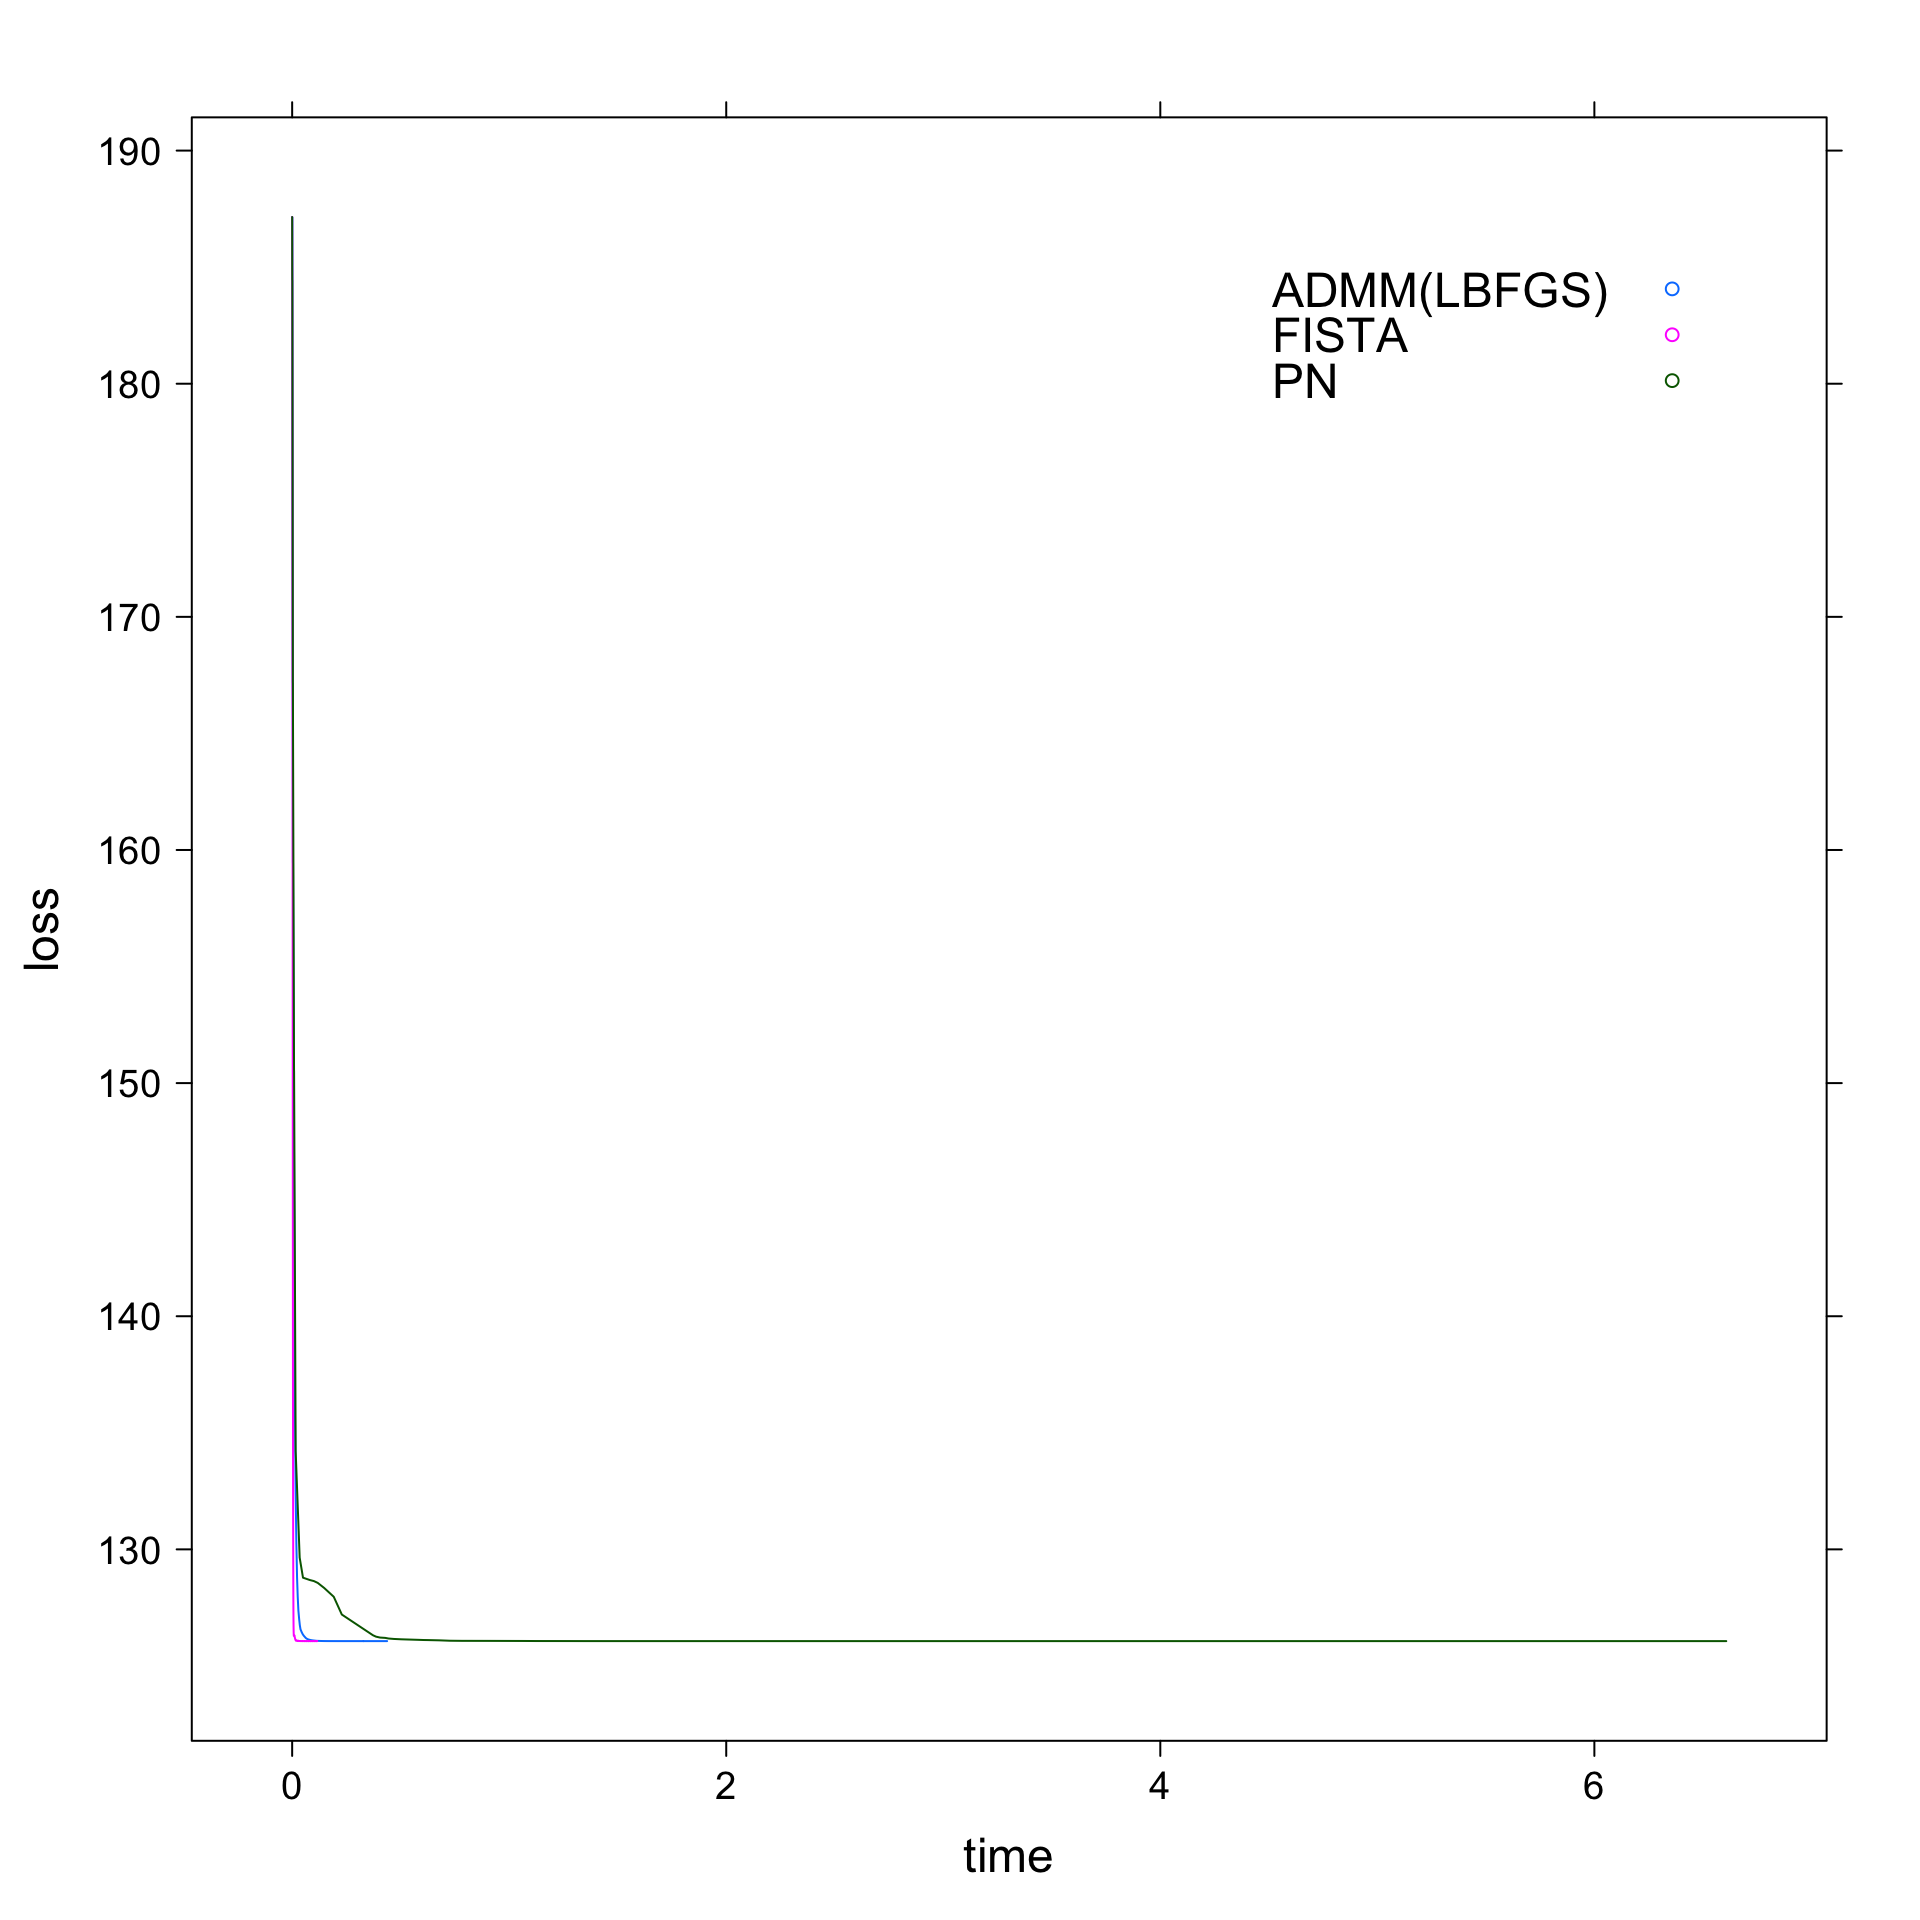
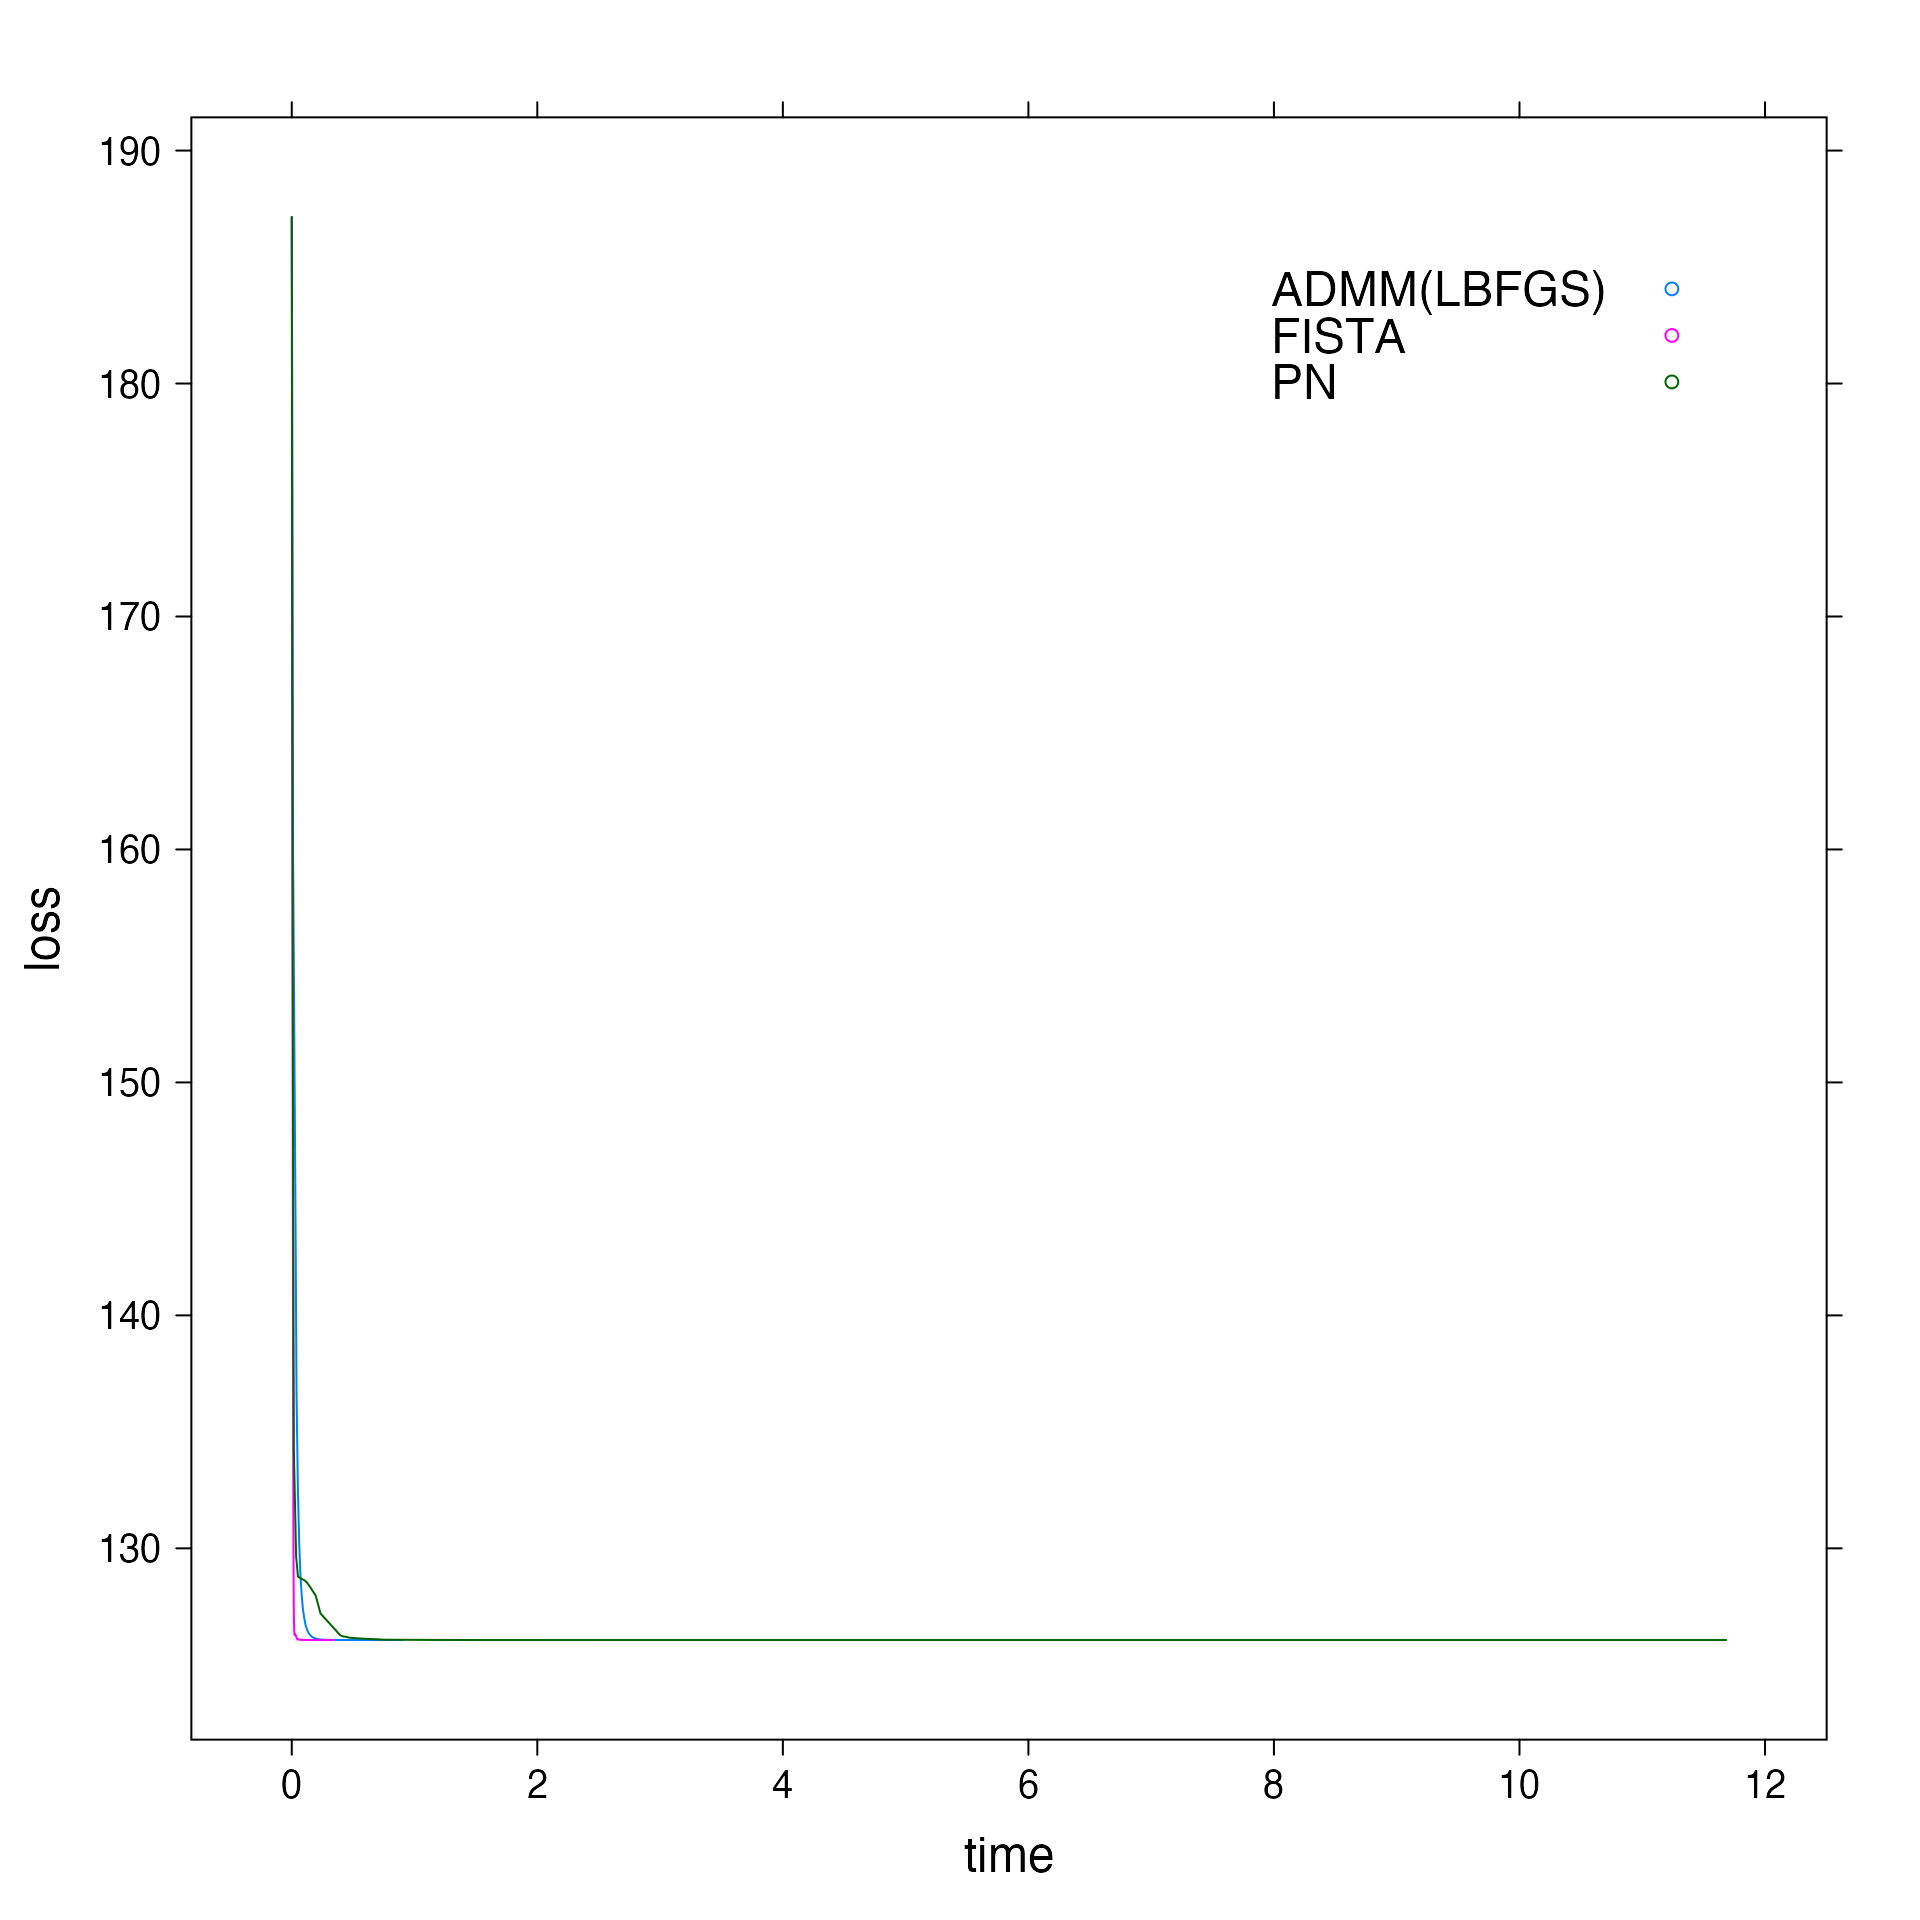
Built site for solvers: 1.0@55af03c

diff --git a/articles/compare_opt_algo.html b/articles/compare_opt_algo.html
@@ -54,22 +54,10 @@
   </a>
   <ul class="dropdown-menu" role="menu">
 <li>
-      <a href="../articles/binomial.html">Binomial Likelihood Benchmarks</a>
-    </li>
-    <li>
       <a href="../articles/compare-fista-admm-pn.html">Comparing FISTA, ADMM and Proximal Newton</a>
     </li>
     <li>
       <a href="../articles/compare_opt_algo.html">Comparing Optimization Algorithm Choices in ADMM</a>
-    </li>
-    <li>
-      <a href="../articles/gaussian.html">Gaussian Likelihood Benchmarks</a>
-    </li>
-    <li>
-      <a href="../articles/multinomial.html">Multinomial Likelihood Benchmarks</a>
-    </li>
-    <li>
-      <a href="../articles/poisson.html">Poisson Likelihood Benchmarks</a>
     </li>
   </ul>
 </li>
@@ -90,7 +78,7 @@
       <h1 data-toc-skip>Comparing Optimization Algorithm Choices in ADMM</h1>
                         <h4 class="author">Akarsh Goyal</h4>
             
-            <h4 class="date">2020-08-24</h4>
+            <h4 class="date">2020-08-29</h4>
       
       
       <div class="hidden name"><code>compare_opt_algo.Rmd</code></div>
@@ -123,11 +111,11 @@
 <div class="sourceCode" id="cb4"><pre class="downlit">
 <span class="co"># Comparing total execution time</span>
 <span class="fu"><a href="https://rdrr.io/r/base/print.html">print</a></span>(<span class="kw">admm_nr</span><span class="op">$</span><span class="kw">total_time</span>)
-<span class="co">#&gt; [1] 0.6366004</span>
+<span class="co">#&gt; [1] 1.234974</span>
 <span class="fu"><a href="https://rdrr.io/r/base/print.html">print</a></span>(<span class="kw">admm_bfgs</span><span class="op">$</span><span class="kw">total_time</span>)
-<span class="co">#&gt; [1] 3.29203</span>
+<span class="co">#&gt; [1] 4.594211</span>
 <span class="fu"><a href="https://rdrr.io/r/base/print.html">print</a></span>(<span class="kw">admm_lbfgs</span><span class="op">$</span><span class="kw">total_time</span>)
-<span class="co">#&gt; [1] 2.983981</span>
+<span class="co">#&gt; [1] 7.189849</span>
 </pre></div>
 <p>Now, these fits cannot be directly used to plot as they contain a lot of parameter so we’ll call a utility function that merges the relevant parameter and returns a dataframe.</p>
 <div class="sourceCode" id="cb5"><pre class="downlit">

diff --git a/articles/compare-fista-admm-pn.html b/articles/compare-fista-admm-pn.html
@@ -54,22 +54,10 @@
   </a>
   <ul class="dropdown-menu" role="menu">
 <li>
-      <a href="../articles/binomial.html">Binomial Likelihood Benchmarks</a>
-    </li>
-    <li>
       <a href="../articles/compare-fista-admm-pn.html">Comparing FISTA, ADMM and Proximal Newton</a>
     </li>
     <li>
       <a href="../articles/compare_opt_algo.html">Comparing Optimization Algorithm Choices in ADMM</a>
-    </li>
-    <li>
-      <a href="../articles/gaussian.html">Gaussian Likelihood Benchmarks</a>
-    </li>
-    <li>
-      <a href="../articles/multinomial.html">Multinomial Likelihood Benchmarks</a>
-    </li>
-    <li>
-      <a href="../articles/poisson.html">Poisson Likelihood Benchmarks</a>
     </li>
   </ul>
 </li>
@@ -90,7 +78,7 @@
       <h1 data-toc-skip>Comparing FISTA, ADMM and Proximal Newton</h1>
                         <h4 class="author">Akarsh Goyal</h4>
             
-            <h4 class="date">2020-08-24</h4>
+            <h4 class="date">2020-08-29</h4>
       
       
       <div class="hidden name"><code>compare-fista-admm-pn.Rmd</code></div>
@@ -121,11 +109,11 @@
 <div class="sourceCode" id="cb4"><pre class="downlit">
 <span class="co"># Comparing total execution time</span>
 <span class="fu"><a href="https://rdrr.io/r/base/print.html">print</a></span>(<span class="kw">fista_fit</span><span class="op">$</span><span class="kw">total_time</span>)
-<span class="co">#&gt; [1] 0.1159849</span>
+<span class="co">#&gt; [1] 0.3436372</span>
 <span class="fu"><a href="https://rdrr.io/r/base/print.html">print</a></span>(<span class="kw">admm_fit</span><span class="op">$</span><span class="kw">total_time</span>)
-<span class="co">#&gt; [1] 0.4406385</span>
+<span class="co">#&gt; [1] 0.9014282</span>
 <span class="fu"><a href="https://rdrr.io/r/base/print.html">print</a></span>(<span class="kw">pn_fit</span><span class="op">$</span><span class="kw">total_time</span>)
-<span class="co">#&gt; [1] 6.708948</span>
+<span class="co">#&gt; [1] 12.00022</span>
 </pre></div>
 <p>Now, these fits cannot be directly used to plot as they contain a lot of parameter so we’ll call a utility function that merges the relevant parameter and returns a dataframe.</p>
 <div class="sourceCode" id="cb5"><pre class="downlit">

diff --git a/articles/index.html b/articles/index.html
@@ -94,10 +94,10 @@
   </a>
   <ul class="dropdown-menu" role="menu">
     <li>
-      <a href="../articles/binomial.html">Binomial Likelihood Benchmarks</a>
+      <a href="../articles/compare-fista-admm-pn.html">Comparing FISTA, ADMM and Proximal Newton</a>
     </li>
     <li>
-      <a href="../articles/gaussian.html">Gaussian Likelihood Benchmarks</a>
+      <a href="../articles/compare_opt_algo.html">Comparing Optimization Algorithm Choices in ADMM</a>
     </li>
   </ul>
 </li>
@@ -125,9 +125,9 @@
       <p class="section-desc"></p>
 
       <dl>
-        <dt><a href="binomial.html">Binomial Likelihood Benchmarks</a></dt>
+        <dt><a href="compare-fista-admm-pn.html">Comparing FISTA, ADMM and Proximal Newton</a></dt>
         <dd></dt>
-        <dt><a href="gaussian.html">Gaussian Likelihood Benchmarks</a></dt>
+        <dt><a href="compare_opt_algo.html">Comparing Optimization Algorithm Choices in ADMM</a></dt>
         <dd></dt>
       </dl>
     </div>

diff --git a/reference/mergeFits.html b/reference/mergeFits.html
@@ -95,10 +95,10 @@
   </a>
   <ul class="dropdown-menu" role="menu">
     <li>
-      <a href="../articles/binomial.html">Binomial Likelihood Benchmarks</a>
+      <a href="../articles/compare-fista-admm-pn.html">Comparing FISTA, ADMM and Proximal Newton</a>
     </li>
     <li>
-      <a href="../articles/gaussian.html">Gaussian Likelihood Benchmarks</a>
+      <a href="../articles/compare_opt_algo.html">Comparing Optimization Algorithm Choices in ADMM</a>
     </li>
   </ul>
 </li>
@@ -127,7 +127,7 @@
     <p>Merges all the fits and returns a dataframe containing losses and time</p>
     </div>
 
-    <pre class="usage"><span class='fu'>mergeFits</span>(<span class='kw'>fits</span>, cutoff_time = <span class='fl'>10000</span>)</pre>
+    <pre class="usage"><span class='fu'>mergeFits</span>(<span class='kw'>fits</span>)</pre>
 
     <h2 class="hasAnchor" id="arguments"><a class="anchor" href="#arguments"></a>Arguments</h2>
     <table class="ref-arguments">

diff --git a/reference/index.html b/reference/index.html
@@ -94,10 +94,10 @@
   </a>
   <ul class="dropdown-menu" role="menu">
     <li>
-      <a href="../articles/binomial.html">Binomial Likelihood Benchmarks</a>
+      <a href="../articles/compare-fista-admm-pn.html">Comparing FISTA, ADMM and Proximal Newton</a>
     </li>
     <li>
-      <a href="../articles/gaussian.html">Gaussian Likelihood Benchmarks</a>
+      <a href="../articles/compare_opt_algo.html">Comparing Optimization Algorithm Choices in ADMM</a>
     </li>
   </ul>
 </li>
@@ -158,13 +158,6 @@
           <p><code><a href="PN.html">PN()</a></code> </p>
         </td>
         <td><p>Proximal Newton</p></td>
-      </tr><tr>
-        
-        <td>
-          <p><code><a href="getBenchmarks.html">getBenchmarks()</a></code> </p>
-        </td>
-        <td><p>Runs all the solvers on (x, y) training data, prints the total time in
-each case, and returns the merged data frame</p></td>
       </tr><tr>
         
         <td>

diff --git a/index.html b/index.html
@@ -54,10 +54,10 @@
   </a>
   <ul class="dropdown-menu" role="menu">
 <li>
-      <a href="articles/binomial.html">Binomial Likelihood Benchmarks</a>
+      <a href="articles/compare-fista-admm-pn.html">Comparing FISTA, ADMM and Proximal Newton</a>
     </li>
     <li>
-      <a href="articles/gaussian.html">Gaussian Likelihood Benchmarks</a>
+      <a href="articles/compare_opt_algo.html">Comparing Optimization Algorithm Choices in ADMM</a>
     </li>
   </ul>
 </li>
@@ -77,7 +77,7 @@
 <div id="solvers" class="section level1">
 <div class="page-header"><h1 class="hasAnchor">
 <a href="#solvers" class="anchor"></a>solvers</h1></div>
-<p>A collection of implementation of various algorithms to solve Sorted L-One Penalised Estimation problem</p>
+<p>A collection of implementation of various algorithms to solve Sorted L-One Penalised Estimation problem.</p>
 </div>
   </div>
 

diff --git a/reference/ADMM.html b/reference/ADMM.html
@@ -95,10 +95,10 @@
   </a>
   <ul class="dropdown-menu" role="menu">
     <li>
-      <a href="../articles/binomial.html">Binomial Likelihood Benchmarks</a>
+      <a href="../articles/compare-fista-admm-pn.html">Comparing FISTA, ADMM and Proximal Newton</a>
     </li>
     <li>
-      <a href="../articles/gaussian.html">Gaussian Likelihood Benchmarks</a>
+      <a href="../articles/compare_opt_algo.html">Comparing Optimization Algorithm Choices in ADMM</a>
     </li>
   </ul>
 </li>

diff --git a/reference/FISTA.html b/reference/FISTA.html
@@ -95,10 +95,10 @@
   </a>
   <ul class="dropdown-menu" role="menu">
     <li>
-      <a href="../articles/binomial.html">Binomial Likelihood Benchmarks</a>
+      <a href="../articles/compare-fista-admm-pn.html">Comparing FISTA, ADMM and Proximal Newton</a>
     </li>
     <li>
-      <a href="../articles/gaussian.html">Gaussian Likelihood Benchmarks</a>
+      <a href="../articles/compare_opt_algo.html">Comparing Optimization Algorithm Choices in ADMM</a>
     </li>
   </ul>
 </li>

diff --git a/reference/PN.html b/reference/PN.html
@@ -95,10 +95,10 @@
   </a>
   <ul class="dropdown-menu" role="menu">
     <li>
-      <a href="../articles/binomial.html">Binomial Likelihood Benchmarks</a>
+      <a href="../articles/compare-fista-admm-pn.html">Comparing FISTA, ADMM and Proximal Newton</a>
     </li>
     <li>
-      <a href="../articles/gaussian.html">Gaussian Likelihood Benchmarks</a>
+      <a href="../articles/compare_opt_algo.html">Comparing Optimization Algorithm Choices in ADMM</a>
     </li>
   </ul>
 </li>

diff --git a/reference/randomProblem.html b/reference/randomProblem.html
@@ -95,10 +95,10 @@
   </a>
   <ul class="dropdown-menu" role="menu">
     <li>
-      <a href="../articles/binomial.html">Binomial Likelihood Benchmarks</a>
+      <a href="../articles/compare-fista-admm-pn.html">Comparing FISTA, ADMM and Proximal Newton</a>
     </li>
     <li>
-      <a href="../articles/gaussian.html">Gaussian Likelihood Benchmarks</a>
+      <a href="../articles/compare_opt_algo.html">Comparing Optimization Algorithm Choices in ADMM</a>
     </li>
   </ul>
 </li>

diff --git a/404.html b/404.html
@@ -94,10 +94,10 @@
   </a>
   <ul class="dropdown-menu" role="menu">
     <li>
-      <a href="articles/binomial.html">Binomial Likelihood Benchmarks</a>
+      <a href="articles/compare-fista-admm-pn.html">Comparing FISTA, ADMM and Proximal Newton</a>
     </li>
     <li>
-      <a href="articles/gaussian.html">Gaussian Likelihood Benchmarks</a>
+      <a href="articles/compare_opt_algo.html">Comparing Optimization Algorithm Choices in ADMM</a>
     </li>
   </ul>
 </li>

diff --git a/LICENSE-text.html b/LICENSE-text.html
@@ -94,10 +94,10 @@
   </a>
   <ul class="dropdown-menu" role="menu">
     <li>
-      <a href="articles/binomial.html">Binomial Likelihood Benchmarks</a>
+      <a href="articles/compare-fista-admm-pn.html">Comparing FISTA, ADMM and Proximal Newton</a>
     </li>
     <li>
-      <a href="articles/gaussian.html">Gaussian Likelihood Benchmarks</a>
+      <a href="articles/compare_opt_algo.html">Comparing Optimization Algorithm Choices in ADMM</a>
     </li>
   </ul>
 </li>
